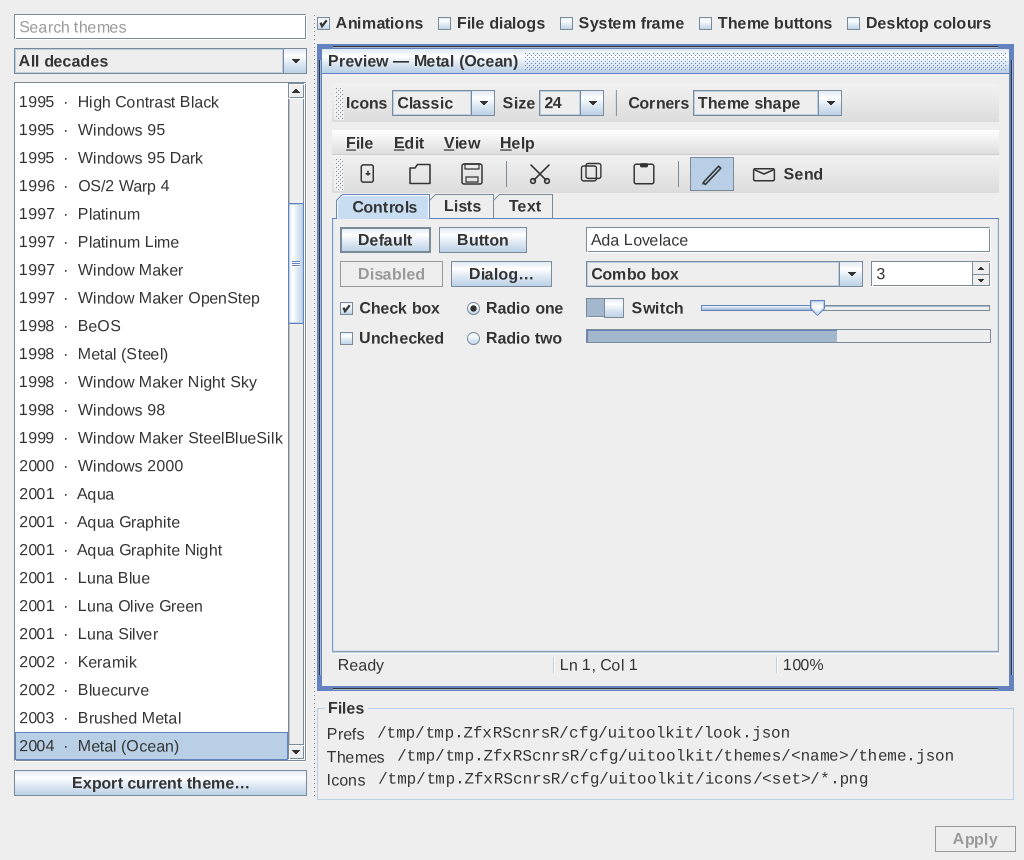
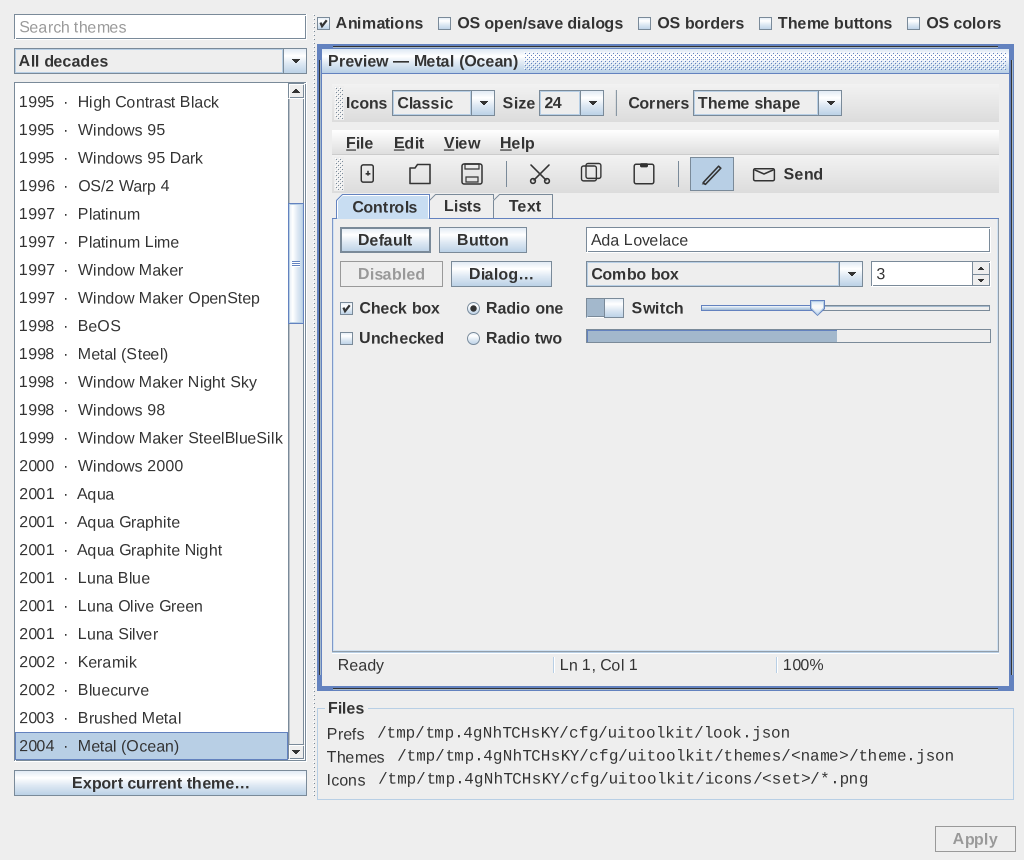
feat(settings): the two options that hand a window to the desktop say OS
System file dialogs and System frames became OS open/save dialogs and OS
borders. Three of the five options over the preview hand something back to
the desktop and the third of them was already called OS colors, so a reader
had to work out that "System frames" and "OS colors" were the same kind of
switch. They say it in the same word now, and the two that are the toolkit's
own behaviour — Animations, Theme buttons — go on saying nothing about
whose. "OS borders" also drops the "frames"/"frame" collision that the last
rename left a letter away from the in-app window frame.

The spoken names follow, because the visible word has to be inside the name
a screen reader says or the control has two names: "OS borders: the
desktop's title bar and borders".

The fold and the preview's share do not move. OS open/save dialogs is the
widest of the five and wider than the System file dialogs it replaces, but
OS borders is enough narrower than System frames to pay for it: the row of
five is two pixels in on what it was. All five still stand on one line in
the 697-pixel row of a 1024x860 window, with six pixels to spare where there
were four; the 453-pixel row of a 720x520 one still takes the first three
and gives the last two a second line. The preview is still 61% of its pane
at 1x and 65% at 1.75x at the minimum, 82% and 84% at 1024x860. The comment
that said the three narrowest come first said something that was no longer
true, so it says what the fold actually is instead.
[…]

Changed region(s): [[0.4375, 0.0, 0.9688, 0.0605], [0.4375, 0.8465, 0.5625, 0.907]]

diff --git a/cmd/uitoolkit-settings/settingsapp/settings.go b/cmd/uitoolkit-settings/settingsapp/settings.go
@@ -539,9 +539,9 @@ func (s *settingsState) exportButton() widget.Component {
 // a check box with a short word on it, the full name a screen reader
 // says, and the one sentence that says what turning it on does.
 //
-// The word on the box is short and the spoken name contains it — "File
-// dialogs" is read out as "Use the desktop's file dialogs" — which is
-// the rule the preview's own settings bar follows two inches below:
+// The word on the box is short and the spoken name contains it — "OS
+// borders" is read out as "OS borders: the desktop's title bar and
+// borders" — which is the rule the preview's settings bar follows below:
 // the visible word must be inside the spoken name, never beside it, or
 // the control has two names. What the eye gets from the row these five
 // stand in, the ear gets from the rest of the name.
@@ -617,8 +617,10 @@ func (s *settingsState) optionsRow() widget.Component {
 			s.stage(next)
 		})
 	// The desktop's own file dialogs (the XDG portal's), as Qt and GTK
-	// apps can use, instead of the themed ones.
-	native := s.option("System file dialogs", "System file dialogs: the desktop's own Open and Save",
+	// apps can use, instead of the themed ones. "OS", not "System",
+	// because the three of these five that hand something to the desktop
+	// should say so in the same word, and "OS colors" already did.
+	native := s.option("OS open/save dialogs", "OS open/save dialogs: the desktop's own Open and Save",
 		"KDE's and GNOME's own Open and Save dialogs, through the XDG portal, instead of the themed ones.",
 		s.staged.NativeDialogs, func(on bool) {
 			next := s.staged
@@ -628,7 +630,7 @@ func (s *settingsState) optionsRow() widget.Component {
 	// Chromium's switch: windows that draw their own title bar (Mail's,
 	// with its tool bar in it) get the desktop's title bar and borders
 	// instead, and their title bar becomes the first row.
-	system := s.option("System frames", "System frames: the desktop's title bar and borders",
+	system := s.option("OS borders", "OS borders: the desktop's title bar and borders",
 		"The desktop draws the title bar and borders of every window, instead of the toolkit.",
 		s.staged.Decorations == style.DecorationsSystem, func(on bool) {
 			next := s.staged
@@ -656,12 +658,17 @@ func (s *settingsState) optionsRow() widget.Component {
 			s.stage(next)
 		})
 
-	// The order is the order they are read, and it is also what makes
-	// them fold well: the three narrowest first, so a narrow pane gets a
-	// line of three and a line of two rather than a ragged four and one.
-	// The frame pair stay next to each other across the fold — the
-	// desktop's frame first, because the theme's button places only mean
-	// anything while the toolkit is drawing the frame itself.
+	// The order is the order they are read, and the fold follows from
+	// it: all five stand on one line in the 697-pixel row of a 1024x860
+	// window, with six pixels to spare, and the 453-pixel row of a
+	// 720x520 one takes the first three and gives the last two a second
+	// line. The frame pair stay next to each other across that fold —
+	// the desktop's frame first, because the theme's button places only
+	// mean anything while the toolkit is drawing the frame itself. ("OS
+	// open/save dialogs" is the widest of the five, wider than the
+	// "System file dialogs" it replaced; "OS borders" is enough narrower
+	// than "System frames" to pay for it, so the row came in by two
+	// pixels rather than out.)
 	row := widgets.NewWrap(motion, native, system, themeButtons, colours)
 	row.Gap = 8
 	row.SetAccessibleName(settingsSections[sectionBehaviour])

diff --git a/cmd/uitoolkit-settings/settingsapp/settings_test.go b/cmd/uitoolkit-settings/settingsapp/settings_test.go
@@ -49,7 +49,7 @@ func TestSettingsAppAppliesAndPersists(t *testing.T) {
 	}
 	// And so is every option the Appearance page used to hold, in the row
 	// over the preview, under the short word each one wears now.
-	for _, opt := range []string{"Animations", "System file dialogs", "System frames", "Theme buttons", "OS colors"} {
+	for _, opt := range []string{"Animations", "OS open/save dialogs", "OS borders", "Theme buttons", "OS colors"} {
 		if findOption(w.Content(), opt) == nil {
 			t.Fatalf("the %q option is not on the page", opt)
 		}
@@ -1059,13 +1059,13 @@ func TestSettingsFollowDesktop(t *testing.T) {
 	}
 }
 
-// "System frames" — "Use system title bar and borders" to a screen
-// reader — writes look.json's decorations, and running apps switch their
-// windows at once.
+// "OS borders" — "OS borders: the desktop's title bar and borders" to a
+// screen reader — writes look.json's decorations, and running apps switch
+// their windows at once.
 func TestSettingsSystemTitleBarSwitch(t *testing.T) {
 	t.Setenv("XDG_CONFIG_HOME", t.TempDir())
 	a, w := openSettings(t, 1024, 780)
-	const label = "System frames"
+	const label = "OS borders"
 	sw := findOption(w.Content(), label)
 	if sw == nil {
 		t.Fatal("no system-frame option")
@@ -1513,7 +1513,7 @@ func TestTheOptionsRowOverThePreview(t *testing.T) {
 	// The words, in the order they are read. The three narrowest first is
 	// what makes a narrow pane fold to three and two instead of four and
 	// one, and the frame pair stay next to each other across the fold.
-	want := []string{"Animations", "System file dialogs", "System frames", "Theme buttons", "OS colors"}
+	want := []string{"Animations", "OS open/save dialogs", "OS borders", "Theme buttons", "OS colors"}
 	var got []string
 	widget.Walk(row, func(c widget.Component) {
 		if b, ok := c.(*widgets.Checkbox); ok {
@@ -1532,11 +1532,11 @@ func TestTheOptionsRowOverThePreview(t *testing.T) {
 	// reader, never a second name for it — the rule the preview's own
 	// settings bar follows a hand's width below.
 	names := map[string]string{
-		"Animations":          "Animations",
-		"System file dialogs": "System file dialogs: the desktop's own Open and Save",
-		"System frames":       "System frames: the desktop's title bar and borders",
-		"Theme buttons":       "Theme buttons: the caption buttons where the theme puts them",
-		"OS colors":           "OS colors: follow the desktop's light or dark mode and its accent",
+		"Animations":           "Animations",
+		"OS open/save dialogs": "OS open/save dialogs: the desktop's own Open and Save",
+		"OS borders":           "OS borders: the desktop's title bar and borders",
+		"Theme buttons":        "Theme buttons: the caption buttons where the theme puts them",
+		"OS colors":            "OS colors: follow the desktop's light or dark mode and its accent",
 	}
 	for word, name := range names {
 		box := findOption(w.Content(), word)

diff --git a/cmd/uitoolkit-settings/settingsapp/browser_test.go b/cmd/uitoolkit-settings/settingsapp/browser_test.go
@@ -82,7 +82,7 @@ func TestSettingsPreviewIsTheWholeRightPane(t *testing.T) {
 		t.Error("the options row is not over the preview")
 	}
 	// And the column beside them is the theme browser and nothing else.
-	for _, word := range []string{"Animations", "System file dialogs", "System frames", "Theme buttons"} {
+	for _, word := range []string{"Animations", "OS open/save dialogs", "OS borders", "Theme buttons"} {
 		box := findOption(w.Content(), word)
 		if box == nil {
 			t.Fatalf("no %q option on the page", word)
@@ -286,9 +286,9 @@ func TestSettingsKeyboardReachesEverything(t *testing.T) {
 				want["animations"] = true
 			case "OS colors":
 				want["colours"] = true
-			case "System file dialogs":
+			case "OS open/save dialogs":
 				want["file dialogs"] = true
-			case "System frames":
+			case "OS borders":
 				want["system frame"] = true
 			case "Theme buttons":
 				want["theme buttons"] = true

diff --git a/cmd/uitoolkit-settings/main.go b/cmd/uitoolkit-settings/main.go
@@ -10,9 +10,8 @@
 // Settings is one page: the theme browser down a column on the left,
 // and on the right, never scrolling away, the thing it is browsing for —
 // a small live application window in the staged pack, with the five
-// on/off options in a row over it (Animations, File dialogs, System
-// frame, Theme buttons, Desktop colours) and the three config paths
-// under it.
+// on/off options in a row over it (Animations, OS open/save dialogs, OS
+// borders, Theme buttons, OS colors) and the three config paths under it.
 //
 // The preview sets three of the things it shows: the icon set, the size
 // its glyphs are drawn at and its corner style are combo boxes on a bar

diff --git a/cmd/uitoolkit-settings/settingsapp/page_shot_test.go b/cmd/uitoolkit-settings/settingsapp/page_shot_test.go
@@ -99,7 +99,7 @@ func TestSettingsPageHoldsAtEverySize(t *testing.T) {
 				// is hand one of them a width its word does not fit in
 				// or push one past the pane's right edge.
 				row := optionsRow(t, w)
-				for _, word := range []string{"Animations", "System file dialogs", "System frames", "Theme buttons", "OS colors"} {
+				for _, word := range []string{"Animations", "OS open/save dialogs", "OS borders", "Theme buttons", "OS colors"} {
 					box := findOption(w.Content(), word)
 					if box == nil {
 						t.Fatalf("%s at %g×, %dx%d: no %q option", pack, scale, size[0], size[1], word)

diff --git a/app/frame.go b/app/frame.go
@@ -111,8 +111,8 @@ type captionClick struct {
 //
 // With the default decoration policy a window with a title bar gets the
 // toolkit's frame where the desktop can move and resize it on request
-// (Wayland, X11 stacking window managers); the user's "Use system title bar
-// and borders" preference, WindowOptions.Decorations and UITK_DECORATIONS
+// (Wayland, X11 stacking window managers); the user's "OS borders"
+// preference (Settings), WindowOptions.Decorations and UITK_DECORATIONS
 // override it.
 func (w *Window) SetTitleBar(c widget.Component) {
 	if w == nil || w.titleBar == c {

diff --git a/app/dress.go b/app/dress.go
@@ -30,8 +30,8 @@ const EnvDecorationPalette = "UITK_DECORATION_PALETTE"
 // palette on the wire only when it changed.
 //
 // The scheme goes to the desktop even while the toolkit draws the frame,
-// so a live switch to the desktop's frame (Settings' "Use system title bar
-// and borders") comes up in the right colours at once.
+// so a live switch to the desktop's frame (Settings' "OS borders") comes up
+// in the right colours at once.
 func (w *Window) syncDecorationPalette() {
 	if w == nil || w.surf == nil || w.opts.Popup || os.Getenv(EnvDecorationPalette) == "0" {
 		return

diff --git a/app/app.go b/app/app.go
@@ -137,9 +137,9 @@ func New(opts Options) *Application {
 	var decorPref style.DecorationsPref
 	var captionPref style.CaptionButtonsPref
 	if !opts.Headless {
-		// "Use system title bar and borders" and the caption buttons'
-		// layout are desktop-wide choices: they apply to apps with a look
-		// of their own too.
+		// "OS borders" (Settings' name for the desktop's title bar and
+		// borders) and the caption buttons' layout are desktop-wide
+		// choices: they apply to apps with a look of their own too.
 		if !preferred {
 			ap = style.LoadAppearance()
 		}

diff --git a/cmd/uitoolkit-settings/settingsapp/a11y_test.go b/cmd/uitoolkit-settings/settingsapp/a11y_test.go
@@ -57,8 +57,8 @@ func TestSettingsIsAccessible(t *testing.T) {
 	// gets, and the one contains the other.
 	for _, name := range []string{
 		"Animations",
-		"System file dialogs: the desktop's own Open and Save",
-		"System frames: the desktop's title bar and borders",
+		"OS open/save dialogs: the desktop's own Open and Save",
+		"OS borders: the desktop's title bar and borders",
 		"Theme buttons: the caption buttons where the theme puts them",
 		"OS colors: follow the desktop's light or dark mode and its accent",
 	} {

diff --git a/app/frame_test.go b/app/frame_test.go
@@ -647,7 +647,7 @@ func TestDecorationsPolicy(t *testing.T) {
 	surf.SetMoveResize(true)
 	a.decorPref = style.DecorationsSystem
 	if d := a.resolveDecorations(opts, true, surf); d != platform.DecorationsServer {
-		t.Errorf("Use system title bar and borders: %v", d)
+		t.Errorf("OS borders: %v", d)
 	}
 	a.decorPref = style.DecorationsToolkit
 	if d := a.resolveDecorations(opts, false, surf); d != platform.DecorationsClient {

diff --git a/docs/settings.md b/docs/settings.md
@@ -160,14 +160,14 @@ in four packs at two scales at both sizes.
 wearing a short word:
 
 ```
-☑ Animations  ☐ System file dialogs  ☐ System frames  ☐ Theme buttons  ☐ OS colors
+☑ Animations  ☐ OS open/save dialogs  ☐ OS borders  ☐ Theme buttons  ☐ OS colors
 ```
 
 | On the box | To a screen reader | What it is |
 | --- | --- | --- |
 | **Animations** | Animations | Hover fades, the default button's pulse, busy bars (GTK's `gtk-enable-animations`). While the desktop itself asks for reduced motion it says so, because the desktop's setting wins over the preference |
-| **System file dialogs** | System file dialogs: the desktop's own Open and Save | KDE's and GNOME's own Open and Save, through the XDG portal, instead of the themed ones |
-| **System frames** | System frames: the desktop's title bar and borders | Chromium's switch. Windows that draw their own title bar (Mail's, with its tool bar in it) get the desktop's instead |
+| **OS open/save dialogs** | OS open/save dialogs: the desktop's own Open and Save | KDE's and GNOME's own Open and Save, through the XDG portal, instead of the themed ones |
+| **OS borders** | OS borders: the desktop's title bar and borders | Chromium's switch. Windows that draw their own title bar (Mail's, with its tool bar in it) get the desktop's instead |
 | **Theme buttons** | Theme buttons: the caption buttons where the theme puts them | Close, minimise and maximise in the theme's era's order (the Mac's traffic lights on the left) rather than the desktop's |
 | **OS colors** | OS colors: follow the desktop's light or dark mode and its accent | The pack shows its sibling to match the desktop — a chosen *Breeze* draws as *Breeze Dark* — recoloured around the desktop's accent where the engine takes one |
 
@@ -184,8 +184,15 @@ a line off the window the whole page is for.
 rule the preview's own settings bar follows a hand's width below, where
 *Size* is read out as *Icon size*. What the eye gets from the row the box
 stands in, the ear gets from the rest of the name. `Dialogs` on its own
-would have been a riddle; `File dialogs` read as *Use the desktop's file
-dialogs* is one name for one control.
+would have been a riddle; `OS open/save dialogs` read as *OS open/save
+dialogs: the desktop's own Open and Save* is one name for one control.
+
+**Three of the five say `OS`** — *OS open/save dialogs*, *OS borders*,
+*OS colors* — because those three are the ones that hand something back
+to the desktop, and a reader should not have to work out that *System
+frames* and *OS colors* were the same kind of thing. The other two,
+*Animations* and *Theme buttons*, are the toolkit's own behaviour and
+say nothing about whose.
 
 **They are check boxes, not switches**, for two reasons that agree. The
 honest one: nothing on this page takes effect when it is touched — Apply
@@ -202,11 +209,13 @@ old arrangement needed two (a switch and its line of prose).
 layout, GTK's `FlowBox`): one line while the pane is wide, two when it is
 not, and never a control cut off by the window frame the way a tool
 bar's shedding would leave one — a setting nobody can reach is worse
-than a second line. The order is what makes it fold well: the three
-narrowest first, so a narrow pane gets a line of three and a line of two
-rather than a ragged four and one, with the frame pair (*System frame*,
-*Theme buttons*) next to each other across the fold and *Desktop
-colours* last, nearest the window whose caption it changes.
+than a second line. The order is the order they are read, and the fold
+follows from it: all five fit the 697-pixel row of a 1024×860 window
+with six pixels to spare, and the 453-pixel row of a 720×520 one takes
+the first three and gives *Theme buttons* and *OS colors* a second line.
+The frame pair (*OS borders*, *Theme buttons*) stay next to each other
+across that fold, and *OS colors* is last, nearest the window whose
+caption it changes.
 
 **Files** — the three paths Settings reads and writes, one line each:
 the **prefs** file, the **themes** directory and the **icons**
@@ -498,7 +507,7 @@ animations off. `followDesktop` shows the pack's light or dark sibling to
 match the desktop. `nativeDialogs` shows the desktop's own file dialogs
 (KDE's, GNOME's, through the XDG portal) instead of the toolkit's themed
 ones. `decorations` is who draws the frame of a window with its own title
-bar: `system` the desktop (**System frames**),
+bar: `system` the desktop (**OS borders**),
 `toolkit` uitoolkit for every window, left out for the default.
 `captionButtons` `theme` puts the caption buttons of a frame uitoolkit
 draws where the theme's era put them (the Mac's traffic lights on the

diff --git a/docs/decorations.md b/docs/decorations.md
@@ -505,7 +505,7 @@ kiosks). First match wins:
 3. Offscreen / headless windows: none of the toolkit's (screenshots and tests
    look the same everywhere) unless 1 or 2 asks.
 4. The user's preference, look.json `"decorations"`: `"system"` (Settings'
-   **System frames**) or `"toolkit"` (every window).
+   **OS borders**) or `"toolkit"` (every window).
 5. Auto: the toolkit's frame for a window with a title bar (`SetTitleBar`)
    where the desktop moves and resizes on request; the desktop's frame for
    every other window. So every app without a title bar looks exactly as
@@ -517,9 +517,9 @@ effect at once, without a restart. The desktop's answer is obeyed.
 
 ### The Settings switch
 
-Settings shows **System frames** — *Use system title bar and borders* to a
-screen reader, Chromium's wording and meaning — in the row of options over
-the preview, next to **System file dialogs**. On: windows
+Settings shows **OS borders** — *OS borders: the desktop's title bar and
+borders* to a screen reader, Chromium's switch by another name — in the row
+of options over the preview, next to **OS open/save dialogs**. On: windows
 that draw their own title bar get the desktop's title bar and borders instead,
 and their title bar becomes the first row. Apply writes look.json
 (`"decorations": "system"`; auto is left out) and every running app switches
